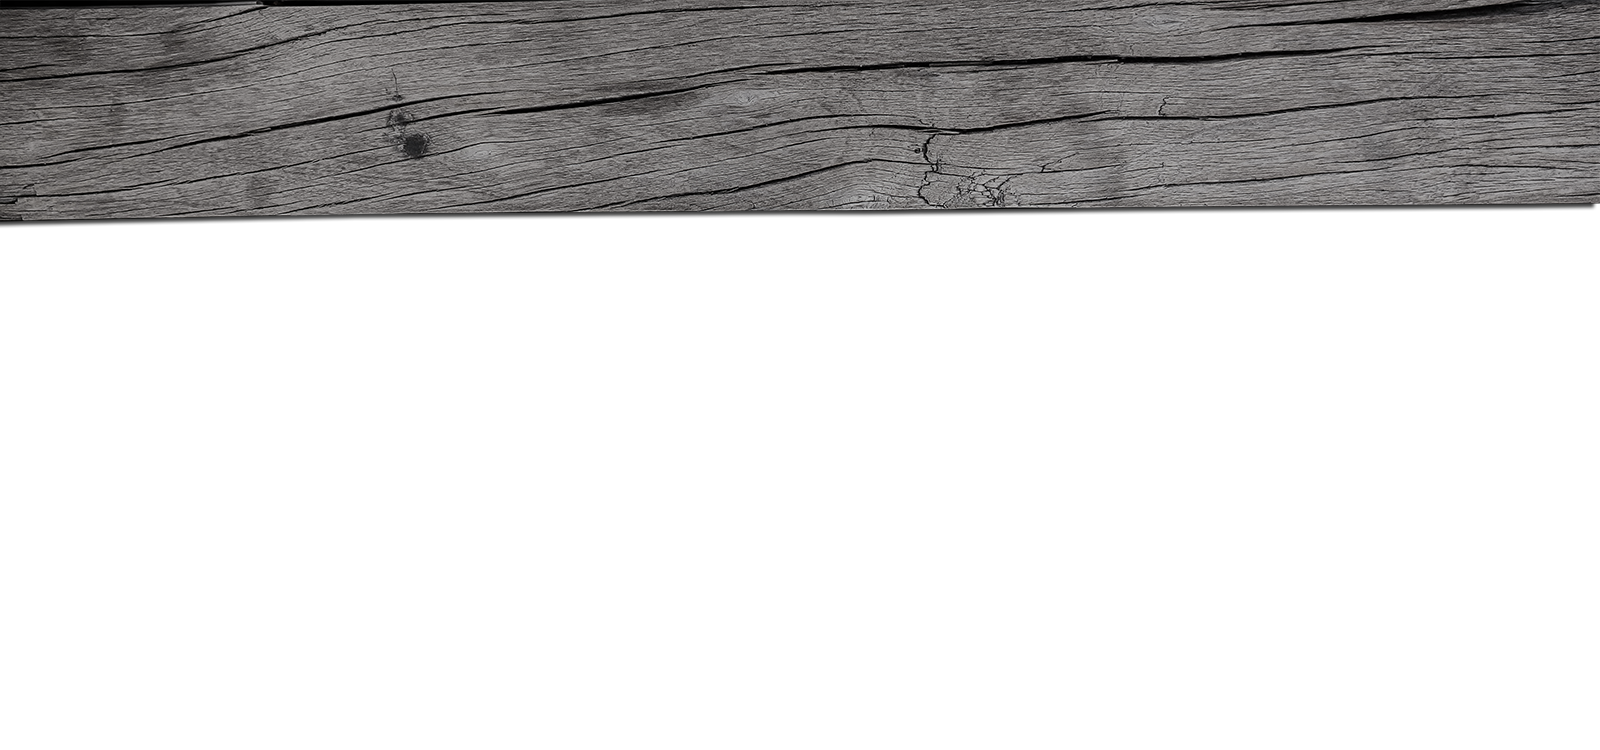
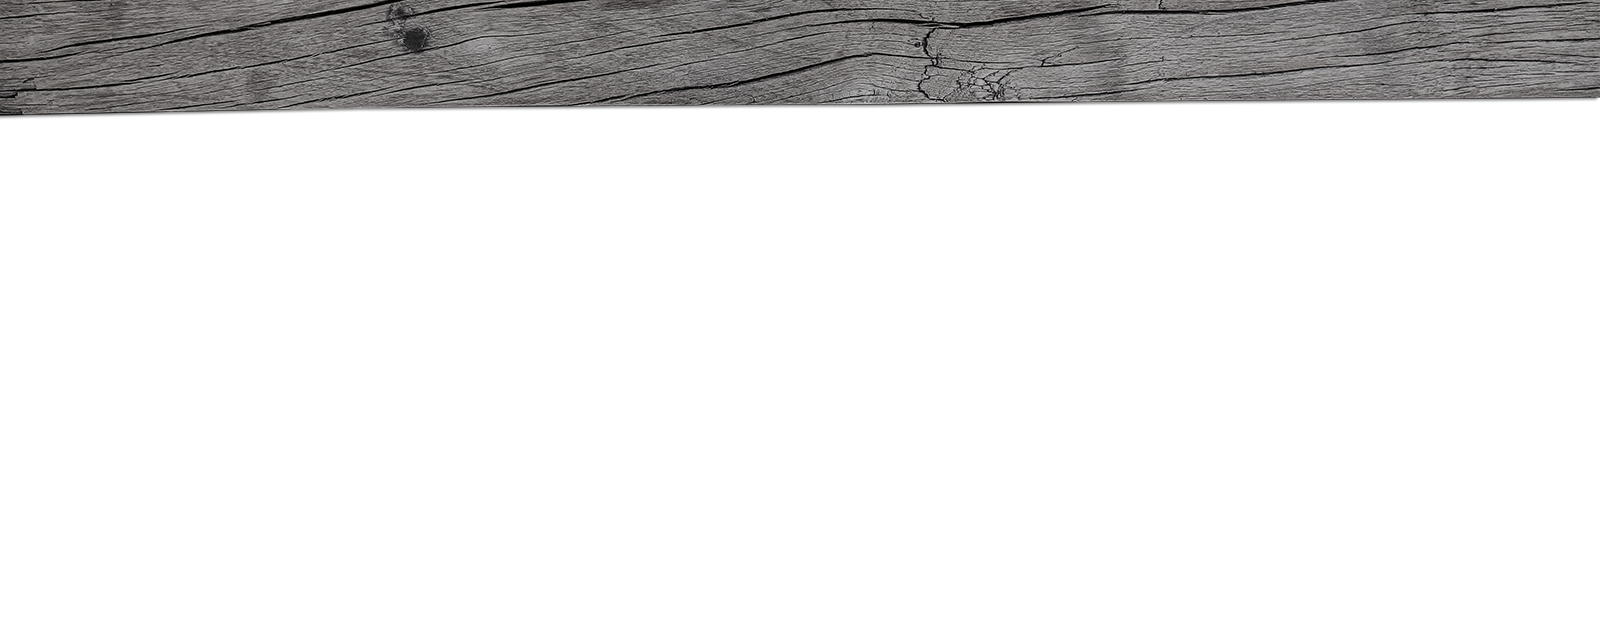
nav on off new image

Changed region(s): [[0.0, 0.0, 1.0, 0.3106]]

diff --git a/public/index.html b/public/index.html
@@ -108,13 +108,15 @@
 
 
         $(window).on("scroll", function() {
-            if($(window).scrollTop() > 40) {
+            if($(window).scrollTop() > 20) {
                 $(".header").addClass("active");
-            } else {
-                //remove the background property so it comes transparent again (defined in your css)
+                $("body").css("background", "white");
+           } else {
                $(".header").removeClass("active");
+               $("body").css("background", "url(\"../images/vegetables.png\") fixed center center / cover no-repeat white");
             }
         });
+
 
 
     /************** Mixitup (Filter Projects) *********************/

diff --git a/public/stylesheets/style.css b/public/stylesheets/style.css
@@ -309,12 +309,15 @@ footer ul li a:hover {
 	margin-top: 120px;
 }
 
-html {
-	background-image: url(../images/vegetables.png);
-  background-repeat: no-repeat;
-  background-attachment: static;
-  background-position: center top -2%;
-  background-size: 100%;
+body {
+
+background: url(../images/vegetables.png) fixed; 
+  	-webkit-background-size: cover;
+  	-moz-background-size: cover;
+  	-o-background-size: cover;
+  	background-size: cover;
+    background-position: center center;
+    background-repeat: no-repeat;
 }
 
 .carousel-inner {
